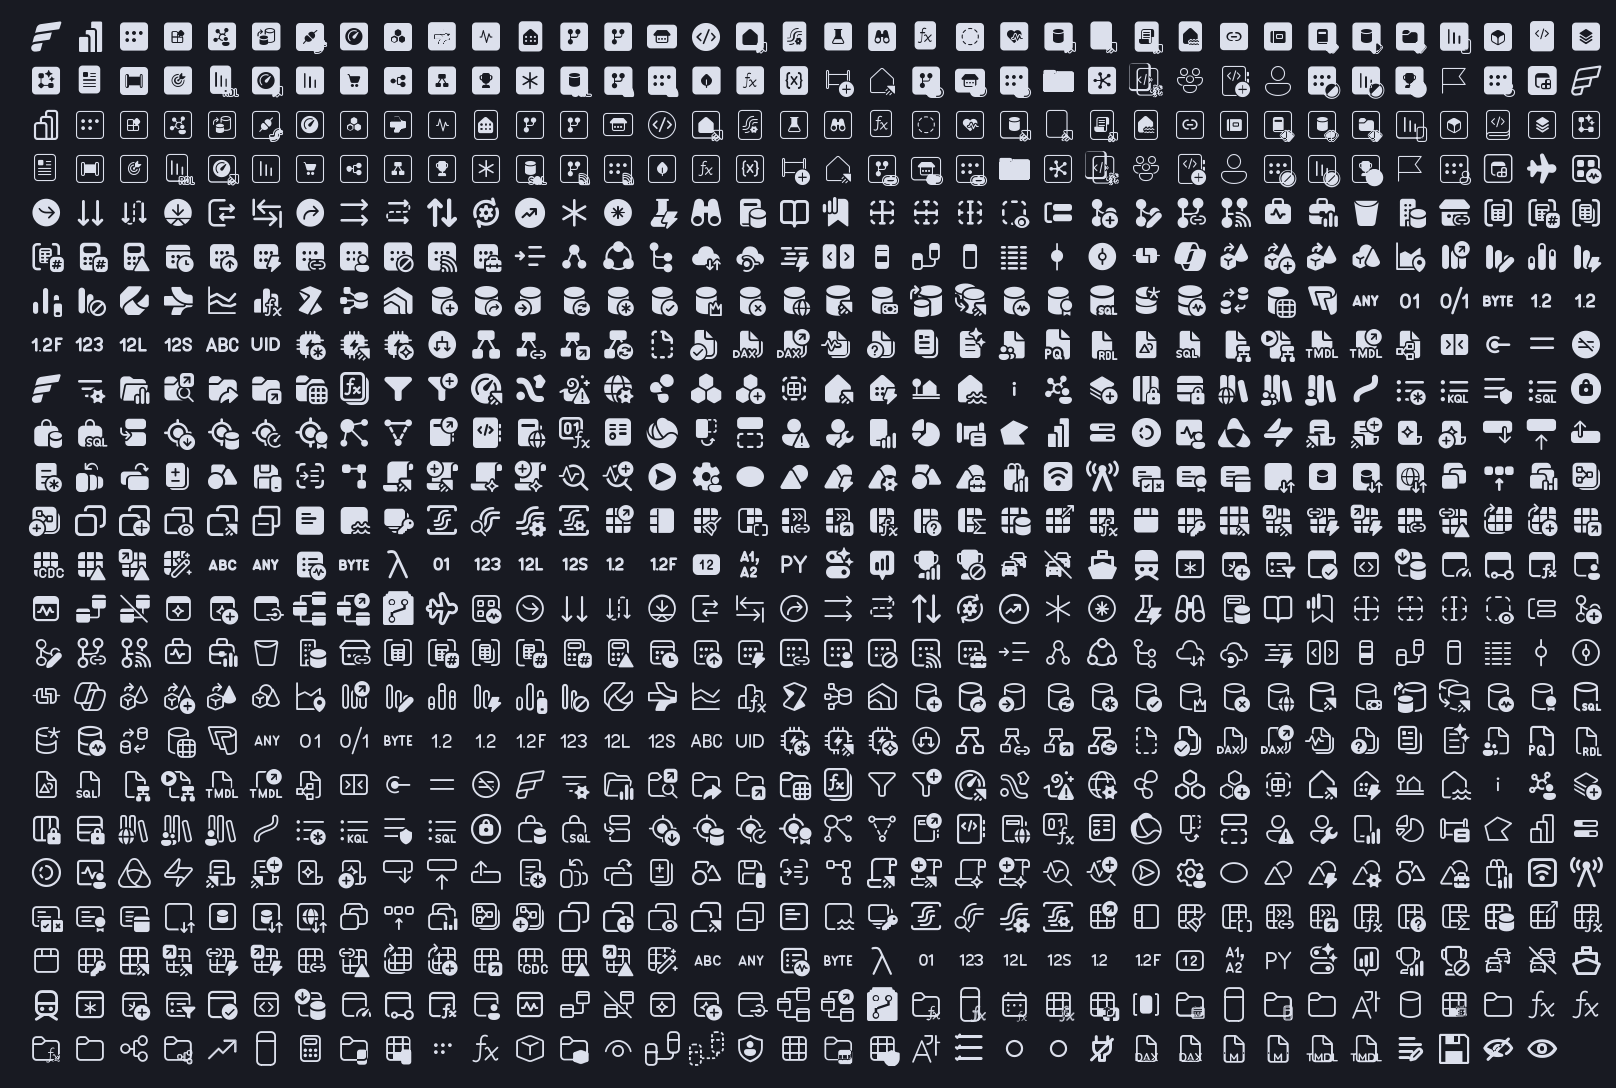
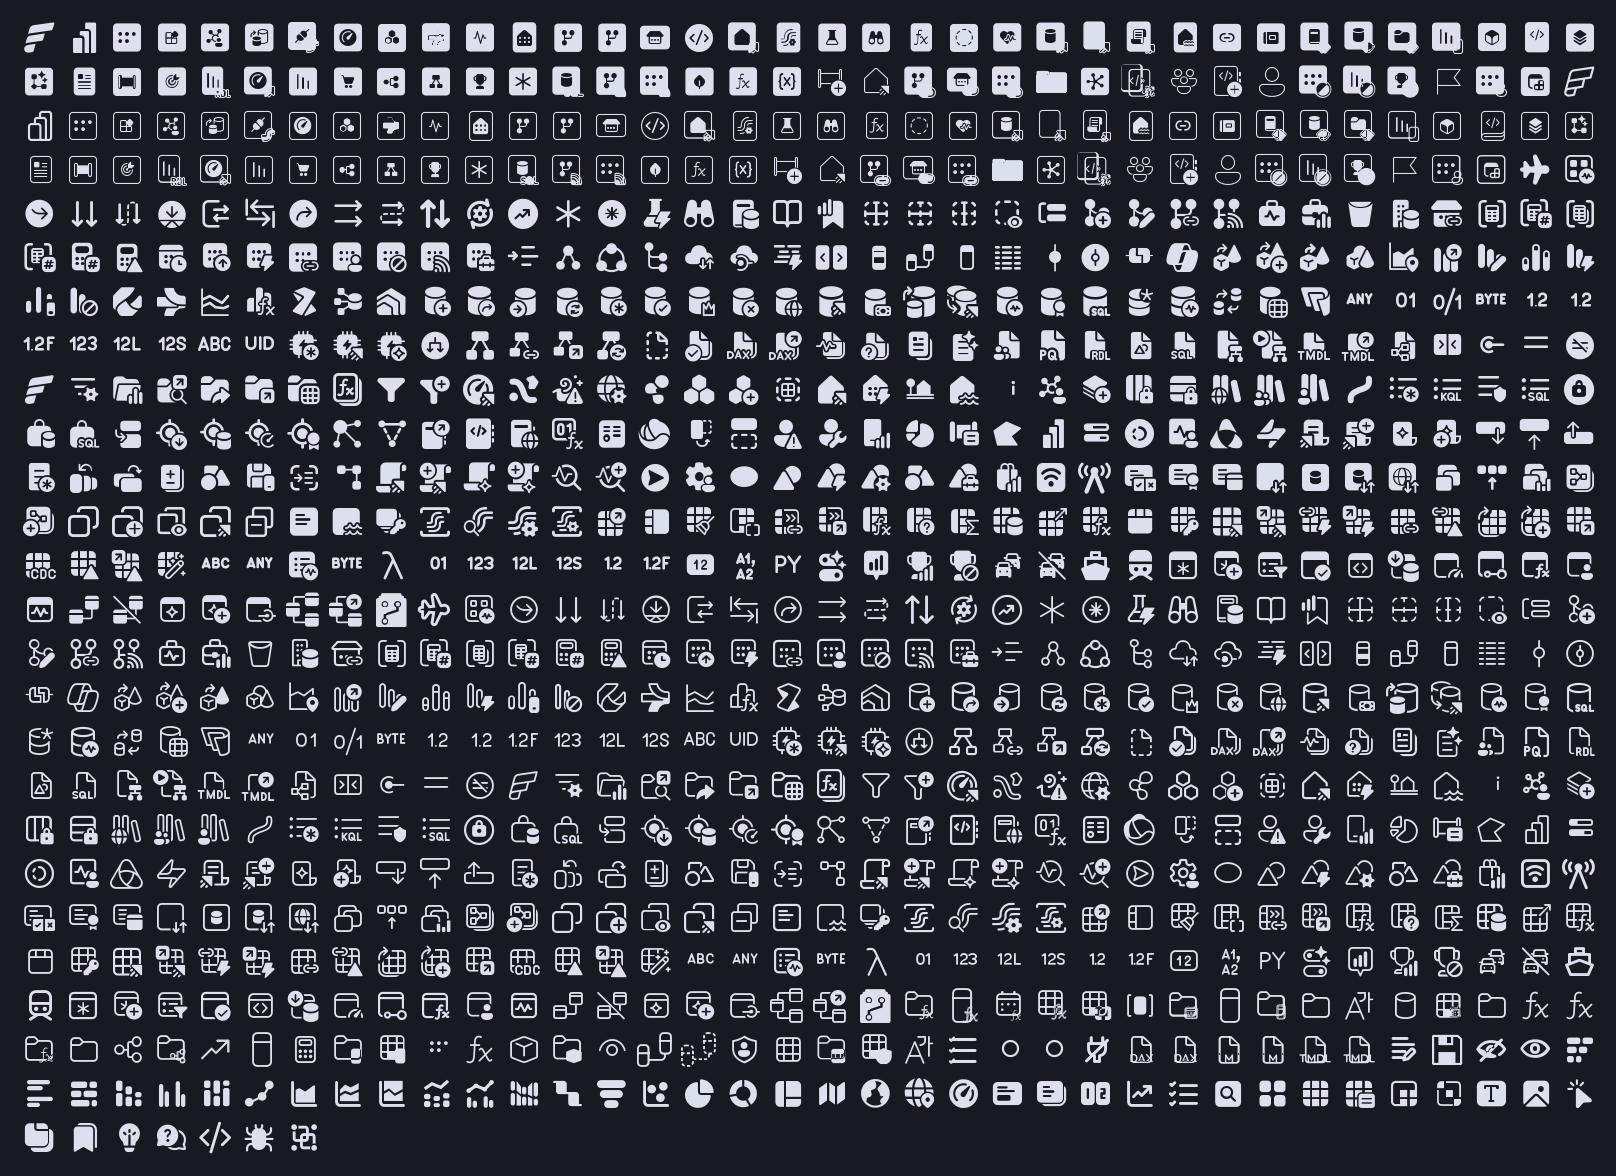
Feat: Power BI visual type glyphs, 907 glyphs

diff --git a/README.md b/README.md
@@ -2,7 +2,7 @@
 
 A NerdFont that provides glyphs of the Fabric icons for use in terminal user interfaces. Each glyph is based on the original icon, and not repackaging or redistributing those icons.
 
-![All 863 glyphs](docs/glyphs.png)
+![All 907 glyphs](docs/glyphs.png)
 
 ## Install
 
@@ -10,7 +10,7 @@ A NerdFont that provides glyphs of the Fabric icons for use in terminal user int
 - **macOS:** copy it to `~/Library/Fonts/`
 - **Windows:** right-click it and choose Install for current user
 
-Restart the terminal afterwards. The glyphs sit at `U+F2000`-`U+F270D`; most terminals fall back to the font for these codepoints by themselves.
+Restart the terminal afterwards. The glyphs sit at `U+F2000`-`U+F282B`; most terminals fall back to the font for these codepoints by themselves.
 
 ## Sources
 

diff --git a/THIRD_PARTY_NOTICES.md b/THIRD_PARTY_NOTICES.md
@@ -10,6 +10,7 @@ The glyphs in FabricSymbols NF are based on the icon artwork below, which remain
 ## Microsoft Fluent UI System Icons
 
 - Semantic model tree and toolbar glyphs: [Fluent UI System Icons](https://github.com/microsoft/fluentui-system-icons), Copyright (c) Microsoft Corporation, MIT
+- Power BI visual type glyphs: [Fluent UI System Icons](https://github.com/microsoft/fluentui-system-icons) ([`@fluentui/svg-icons`](https://www.npmjs.com/package/@fluentui/svg-icons) 1.1.343), Copyright (c) Microsoft Corporation, MIT; chart variants without a Fluent icon are drawn from Fluent chart icon geometry
 
 ## Other Microsoft product icons
 
